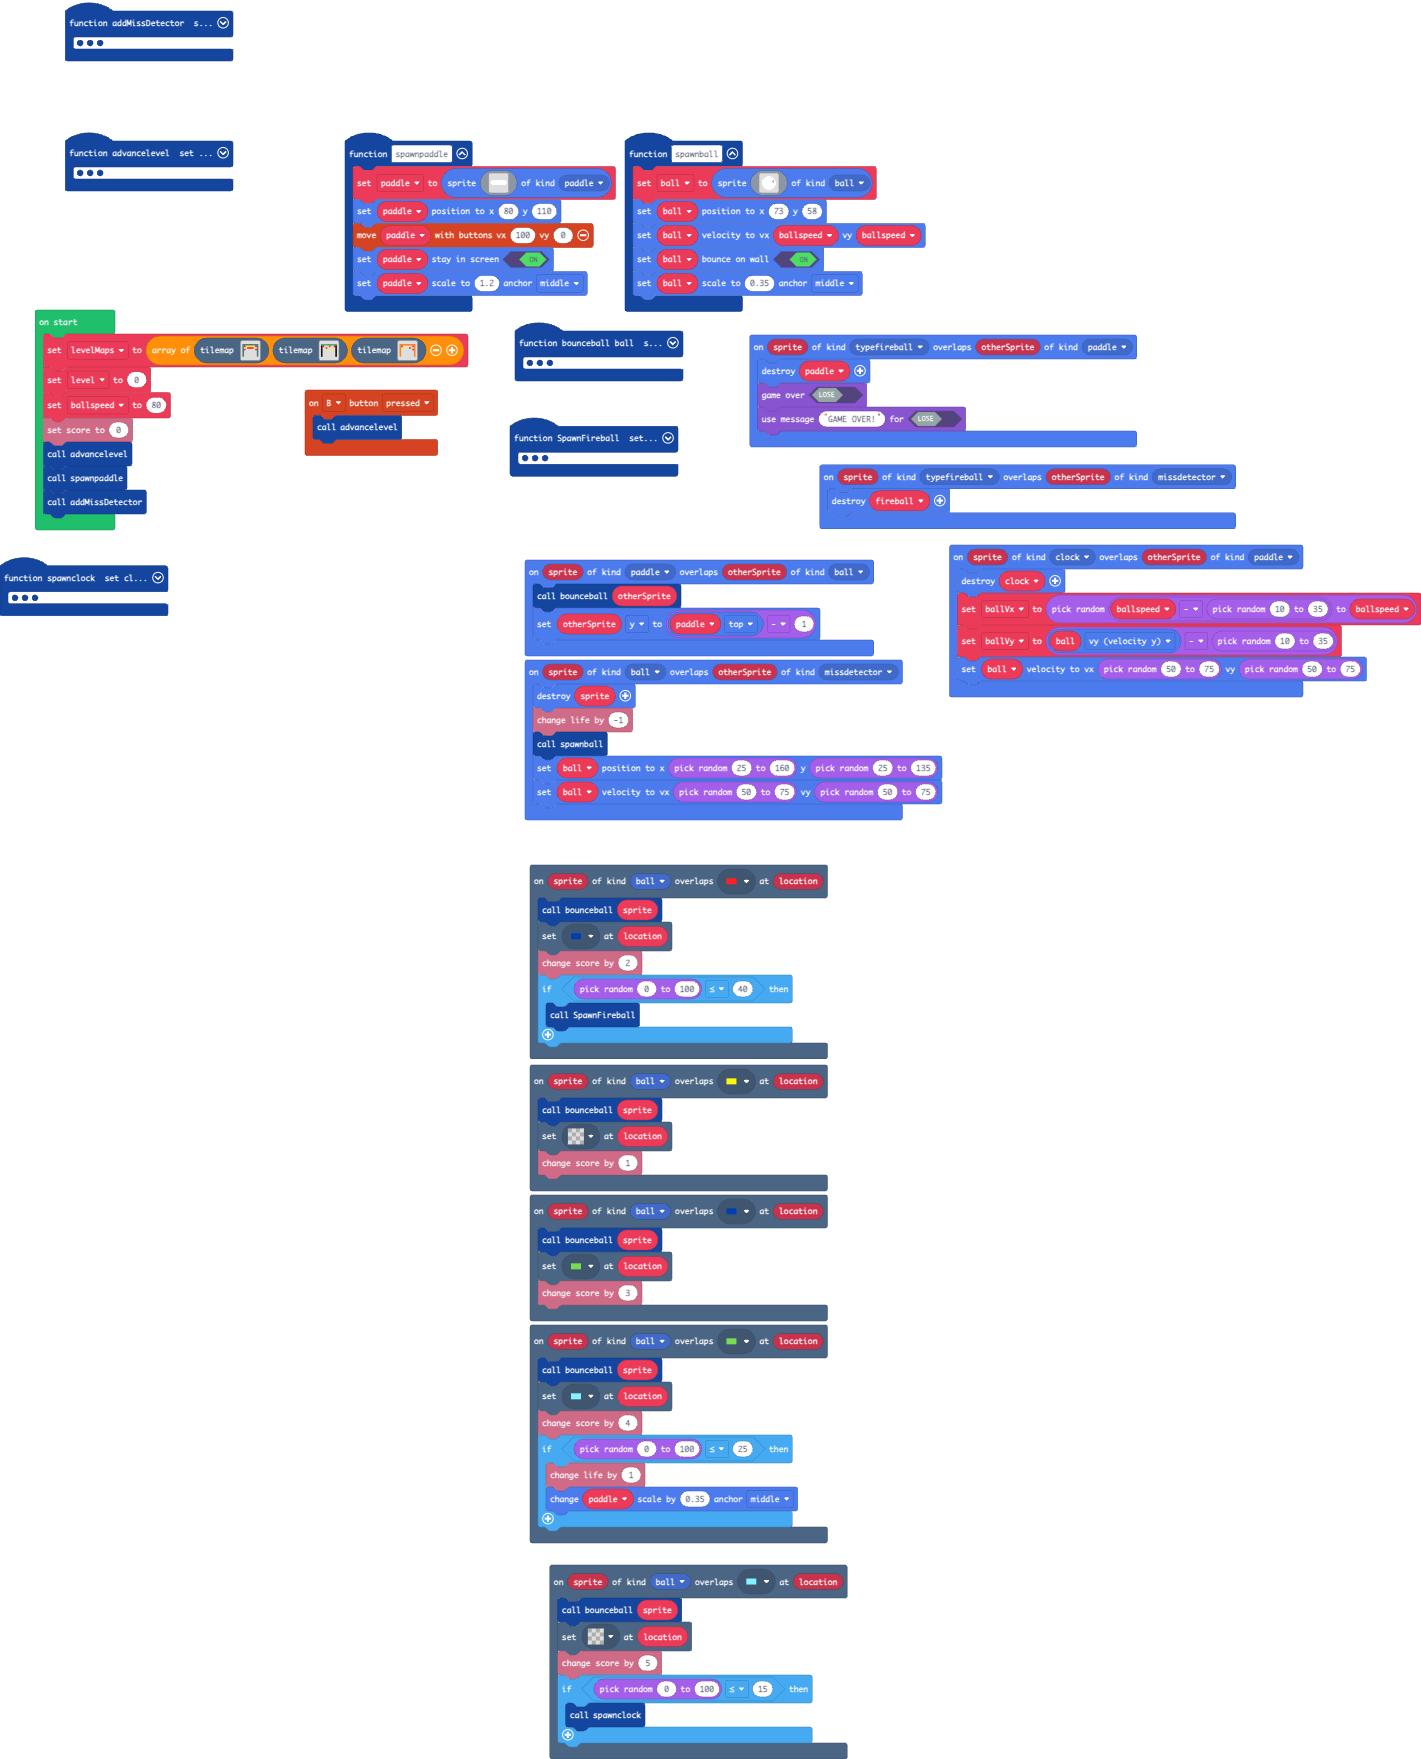
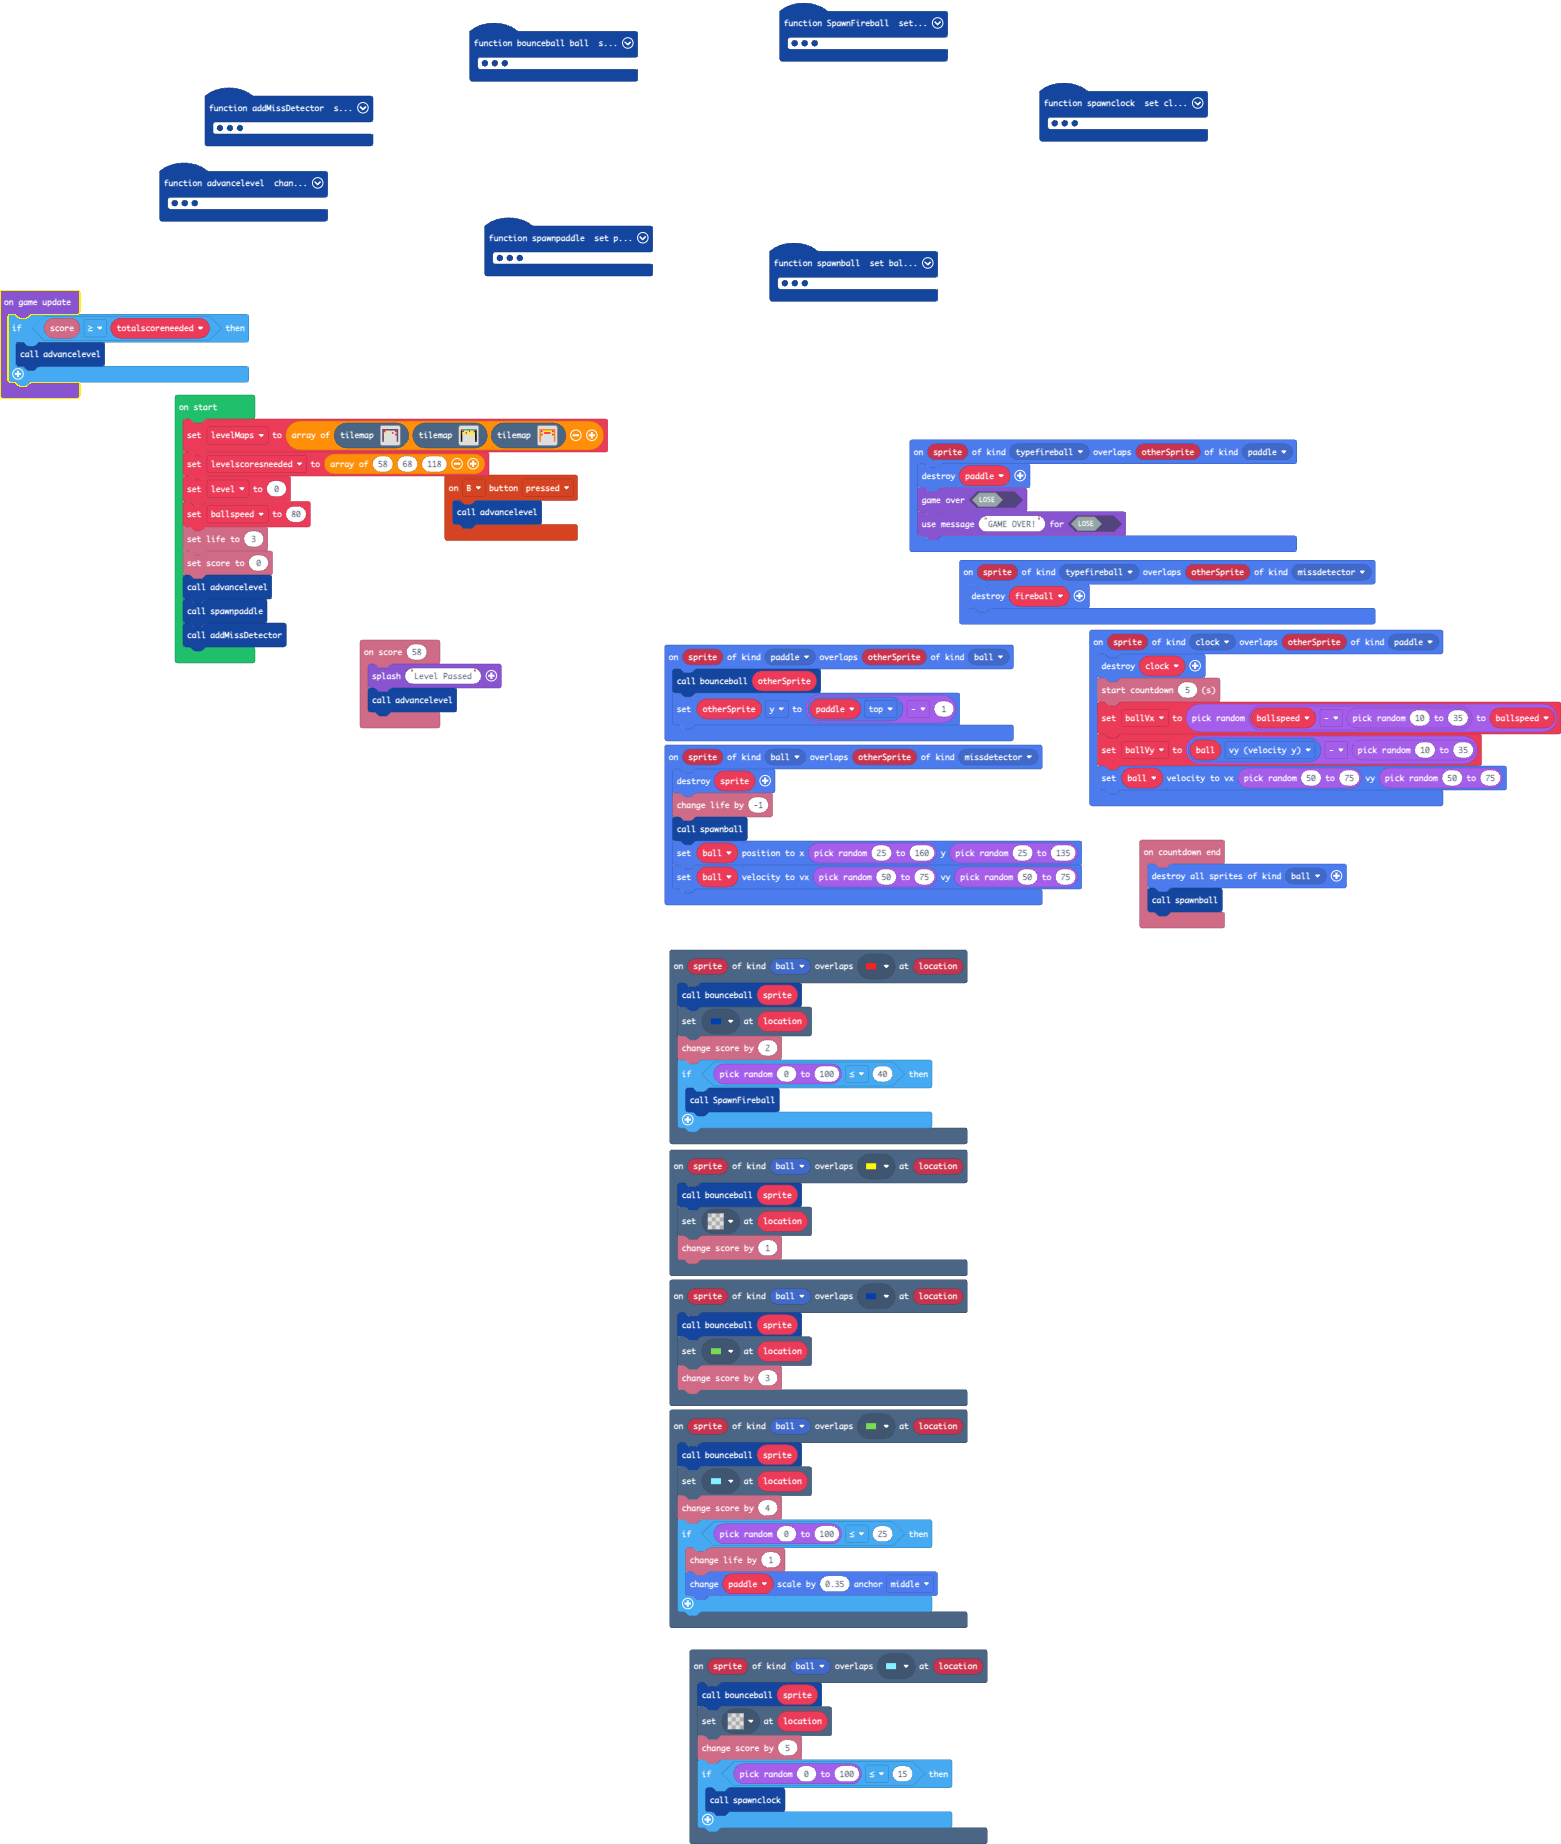
Update main.blocks, main.ts, tilemap.g.jres, tilemap.g.ts

diff --git a/tilemap.g.ts b/tilemap.g.ts
@@ -378,39 +378,6 @@ namespace myTiles {
 . . . . . . . . . . . . . . . . 
 . . . . . . . . . . . . . . . . 
 `, [myTiles.transparency16], TileScale.Sixteen);
-            case "level0":
[1 lines of base64/hex data omitted]
-2 2 2 2 2 2 2 2 2 2 
-2 . . . . . . . . 2 
-2 . . . . . . . . 2 
-2 . . . . . . . . 2 
-2 . . . . . . . . 2 
-2 . . . . . . . . 2 
-2 . . . . . . . . 2 
-2 . . . . . . . . 2 
-`, [myTiles.transparency16,myTiles.tile4,myTiles.tile5,sprites.dungeon.hazardLava1,sprites.dungeon.hazardLava0], TileScale.Sixteen);
-            case "level2":
[1 lines of base64/hex data omitted]
-2 2 2 2 2 2 2 2 2 2 
-2 . . . . . . . . 2 
-2 . . . . . . . . 2 
-2 . . . . . . . . 2 
-2 . . . . . . . . 2 
-2 . . . . . . . . 2 
-2 . . . . . . . . 2 
-2 . . . . . . . . 2 
-`, [myTiles.transparency16,myTiles.tile4,myTiles.tile5,sprites.dungeon.greenOuterNorthWest,sprites.dungeon.greenOuterNorth0,sprites.dungeon.greenOuterNorth1,sprites.dungeon.greenOuterNorthEast,sprites.dungeon.greenOuterSouthEast,sprites.dungeon.greenOuterSouthWest,sprites.dungeon.greenOuterWest1,sprites.dungeon.greenOuterWest0,sprites.dungeon.greenOuterEast1,sprites.dungeon.greenOuterEast0], TileScale.Sixteen);
-            case "level23":
[1 lines of base64/hex data omitted]
-2 2 2 2 2 2 2 2 2 2 
-2 . . . . . . . . 2 
-2 . . . . . . . . 2 
-2 . . . . . . . . 2 
-2 . . . . . . . . 2 
-2 . . . . . . . . 2 
-2 . . . . . . . . 2 
-2 . . . . . . . . 2 
-`, [myTiles.transparency16,myTiles.tile4,myTiles.tile5,sprites.builtin.forestTiles13,sprites.builtin.forestTiles15,sprites.builtin.forestTiles9,sprites.builtin.forestTiles5,sprites.builtin.forestTiles7,sprites.builtin.forestTiles11,sprites.builtin.forestTiles1,sprites.builtin.forestTiles4,sprites.builtin.forestTiles3], TileScale.Sixteen);
             case "level24":
             case "level24":return tiles.createTilemap(hex`1000100000000000000000000000000000000000000000000000000000000000000000000000000000000000000000000000000000000000000000000000000000000000000000000000000000000000000000000000000000000000000000000000000000000000000000000000000000000000000000000000000000000000000000000000000000000000000000000000000000000000000000000000000000000000000000000000000000000000000000000000000000000000000000000000000000000000000000000000000000000000000000000000000000000000000000000000000000000000000000000000000000000000000000000000000000000000`, img`
 . . . . . . . . . . . . . . . . 
@@ -468,6 +435,39 @@ namespace myTiles {
 . . . . . . . . . . . . . . . . 
 . . . . . . . . . . . . . . . . 
 `, [myTiles.transparency16], TileScale.Sixteen);
+            case "level0":
[1 lines of base64/hex data omitted]
+2 2 2 2 2 2 2 2 2 2 
+2 . . . . . . . . 2 
+2 . . . . . . . . 2 
+2 . . . . . . . . 2 
+2 . . . . . . . . 2 
+2 . . . . . . . . 2 
+2 . . . . . . . . 2 
+2 . . . . . . . . 2 
+`, [myTiles.transparency16,myTiles.tile4,myTiles.tile5,sprites.dungeon.darkGroundSouthWest0,sprites.dungeon.darkGroundSouthEast0,sprites.dungeon.darkGroundNorthEast0,sprites.dungeon.darkGroundNorthWest0,sprites.dungeon.darkGroundNorth,sprites.dungeon.darkGroundWest,sprites.dungeon.darkGroundEast], TileScale.Sixteen);
+            case "level2":
[1 lines of base64/hex data omitted]
+2 2 2 2 2 2 2 2 2 2 
+2 . . . . . . . . 2 
+2 . . . . . . . . 2 
+2 . . . . . . . . 2 
+2 . . . . . . . . 2 
+2 . . . . . . . . 2 
+2 . . . . . . . . 2 
+2 . . . . . . . . 2 
+`, [myTiles.transparency16,myTiles.tile4,myTiles.tile5,sprites.dungeon.hazardLava1,sprites.dungeon.hazardLava0], TileScale.Sixteen);
+            case "level23":
[1 lines of base64/hex data omitted]
+2 2 2 2 2 2 2 2 2 2 
+2 . . . . . . . . 2 
+2 . . . . . . . . 2 
+2 . . . . . . . . 2 
+2 . . . . . . . . 2 
+2 . . . . . . . . 2 
+2 . . . . . . . . 2 
+2 . . . . . . . . 2 
+`, [myTiles.transparency16,myTiles.tile4,myTiles.tile5,sprites.builtin.forestTiles13,sprites.builtin.forestTiles15,sprites.builtin.forestTiles9,sprites.builtin.forestTiles5,sprites.builtin.forestTiles7,sprites.builtin.forestTiles11,sprites.builtin.forestTiles1,sprites.builtin.forestTiles4,sprites.builtin.forestTiles3], TileScale.Sixteen);
         }
         return null;
     })

diff --git a/main.ts b/main.ts
@@ -16,6 +16,7 @@ scene.onOverlapTile(SpriteKind.ball, assets.tile`myTile`, function (sprite, loca
 })
 sprites.onOverlap(SpriteKind.clock, SpriteKind.paddle, function (sprite, otherSprite) {
     sprites.destroy(clock)
+    info.startCountdown(5)
     ballVx = randint(ballspeed - randint(10, 35), ballspeed)
     ballVy = ball.vy - randint(10, 35)
     ball.setVelocity(randint(50, 75), randint(50, 75))
@@ -65,10 +66,18 @@ scene.onOverlapTile(SpriteKind.ball, assets.tile`myTile3`, function (sprite, loc
         SpawnFireball()
     }
 })
+info.onScore(58, function () {
+    game.splash("Level Passed")
+    advancelevel()
+})
 scene.onOverlapTile(SpriteKind.ball, assets.tile`myTile2`, function (sprite, location) {
     bounceball(sprite)
     tiles.setTileAt(location, assets.tile`transparency16`)
     info.changeScoreBy(1)
+})
+info.onCountdownEnd(function () {
+    sprites.destroyAllSpritesOfKind(SpriteKind.ball)
+    spawnball()
 })
 scene.onOverlapTile(SpriteKind.ball, assets.tile`myTile1`, function (sprite, location) {
     bounceball(sprite)
@@ -89,10 +98,13 @@ function bounceball (ball: Sprite) {
     ball.setVelocity(ballVx, ballVy)
 }
 function advancelevel () {
+    totalscoreneeded += levelscoresneeded[level]
     tiles.setCurrentTilemap(levelMaps[level])
     level += 1
     game.splash("Level" + level)
-    spawnball()
+    info.startCountdown(3)
+    sprites.destroyAllSpritesOfKind(SpriteKind.ball)
+    sprites.destroyAllSpritesOfKind(SpriteKind.Player)
 }
 sprites.onOverlap(SpriteKind.paddle, SpriteKind.ball, function (sprite, otherSprite) {
     bounceball(otherSprite)
@@ -135,6 +147,7 @@ function spawnball () {
     ball.setPosition(73, 58)
     ball.setVelocity(ballspeed, ballspeed)
     ball.setBounceOnWall(true)
+    ball.setStayInScreen(true)
     ball.setScale(0.35, ScaleAnchor.Middle)
 }
 sprites.onOverlap(SpriteKind.typefireball, SpriteKind.missdetector, function (sprite, otherSprite) {
@@ -192,6 +205,7 @@ function spawnpaddle () {
     paddle.setScale(1.2, ScaleAnchor.Middle)
 }
 let fireball: Sprite = null
+let totalscoreneeded = 0
 let MD: Sprite = null
 let ball: Sprite = null
 let ballVy = 0
@@ -200,11 +214,19 @@ let clock: Sprite = null
 let paddle: Sprite = null
 let ballspeed = 0
 let level = 0
+let levelscoresneeded: number[] = []
 let levelMaps: tiles.TileMapData[] = []
-levelMaps = [tilemap`level2`, tilemap`level23`, tilemap`level0`]
+levelMaps = [tilemap`level0`, tilemap`level23`, tilemap`level2`]
+levelscoresneeded = [58, 68, 118]
 level = 0
 ballspeed = 80
+info.setLife(3)
 info.setScore(0)
 advancelevel()
 spawnpaddle()
 addMissDetector()
+game.onUpdate(function () {
+    if (info.score() >= totalscoreneeded) {
+        advancelevel()
+    }
+})
